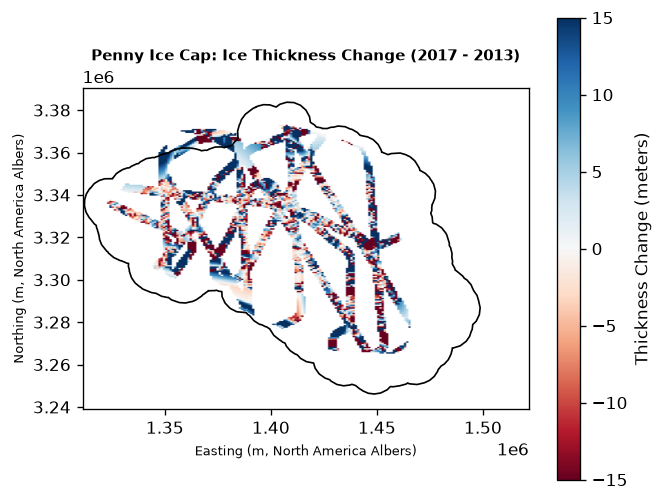
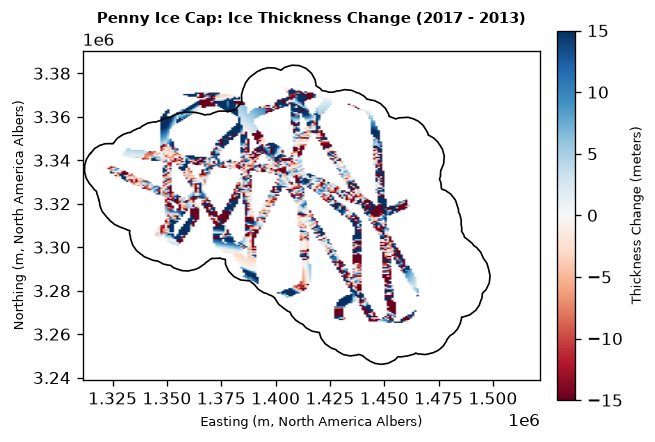
Add Russian manuscript translation, update maps to two-panel layout, and fix colorbar spacing

Changed region(s): [[0.0, 0.0294, 1.0, 0.9706], [0.3053, 0.9412, 0.6412, 0.9706]]

diff --git a/src/dem_analysis.py b/src/dem_analysis.py
@@ -52,35 +52,94 @@ def run_dem_analysis():
     print("Loading glacier boundary shapefile...")
     gdf = gpd.read_file(SHP_PATH)
     
-    # 3. Load and plot DEM
+    # 3. Load and plot DEM & Bedrock Topography (Two-Panel Figure)
     print("Opening 2015-2016 DEM TIFF...")
     with rasterio.open(TIF_PATH) as src:
         dem_crs = src.crs.to_string()
         print(f"DEM CRS: {dem_crs}")
         
         # Read downsampled DEM for visualization
-        factor = 10
+        factor = 5
         dem_data = src.read(1, out_shape=(src.height // factor, src.width // factor))
         dem_data = np.where(dem_data == src.nodata, np.nan, dem_data)
         
         # Get bounds of downsampled image
         dem_extent = [src.bounds.left, src.bounds.right, src.bounds.bottom, src.bounds.top]
         
-        # Plot DEM Topography
-        print("Generating DEM topography map...")
-        fig, ax = plt.subplots(figsize=(7, 6))
-        im = ax.imshow(dem_data, cmap="terrain", extent=dem_extent, origin="upper")
-        gdf.boundary.plot(ax=ax, color="black", linewidth=1.2, label="Glacier Boundary")
-        ax.set_title("Penny Ice Cap (2015-2016): Digital Elevation Model (DEM)", fontsize=10, fontweight="bold")
-        ax.set_xlabel("Easting (meters, North America Albers)", fontsize=8)
-        ax.set_ylabel("Northing (meters, North America Albers)", fontsize=8)
-        ax.grid(True, linestyle="--", alpha=0.5)
-        fig.colorbar(im, ax=ax, label="Elevation (m above sea level)")
+        # Load MCoRDS data to interpolate bedrock elevation
+        print("Loading MCoRDS bedrock elevations...")
+        df_csv = pd.read_csv(CSV_PATH)
+        df_csv = df_csv.dropna(subset=["LAT", "LON", "ELEVATION", "BOTTOM", "THICK"])
+        df_csv = df_csv[(df_csv["ELEVATION"] > -9000) & (df_csv["BOTTOM"] > -9000) & (df_csv["THICK"] >= 0)]
+        
+        # Project bedrock points to DEM CRS
+        print("Projecting bedrock track points...")
+        bed_xs, bed_ys = transform('EPSG:4326', src.crs, df_csv['LON'].tolist(), df_csv['LAT'].tolist())
+        bed_zs = (df_csv['ELEVATION'] - df_csv['BOTTOM']).tolist()
+        
+        # Interpolate bedrock heights onto the regular grid
+        print("Interpolating bedrock elevation using griddata...")
+        grid_size = 300
+        x_grid = np.linspace(src.bounds.left, src.bounds.right, grid_size)
+        y_grid = np.linspace(src.bounds.top, src.bounds.bottom, grid_size)
+        grid_x, grid_y = np.meshgrid(x_grid, y_grid)
+        
+        from scipy.interpolate import griddata
+        bed_grid = griddata((bed_xs, bed_ys), bed_zs, (grid_x, grid_y), method="linear")
+        
+        # Mask bedrock topography outside glacier boundary
+        print("Masking bedrock topography outside glacier boundary...")
+        from rasterio.features import rasterize
+        try:
+            poly = gdf.geometry.union_all()
+        except AttributeError:
+            poly = gdf.geometry.unary_union
+            
+        shapes = [(poly, 1)]
+        res_x = (src.bounds.right - src.bounds.left) / grid_size
+        res_y = (src.bounds.top - src.bounds.bottom) / grid_size
+        out_transform = rasterio.transform.from_origin(src.bounds.left, src.bounds.top, res_x, res_y)
+        
+        boundary_mask = rasterize(shapes, out_shape=(grid_size, grid_size), transform=out_transform, fill=0, default_value=1, all_touched=True)
+        bed_grid_masked = np.where(boundary_mask == 1, bed_grid, np.nan)
+        
+        # Plot side-by-side panels
+        print("Generating two-panel surface & bedrock topography maps...")
+        fig, axes = plt.subplots(1, 2, figsize=(14, 6), sharey=True)
+        
+        # Panel A: Surface Elevation
+        im_a = axes[0].imshow(dem_data, cmap="Blues_r", extent=dem_extent, origin="upper")
+        
+        # Add topographic contour lines (every 200m)
+        levels = np.arange(200, 2200, 200)
+        contours = axes[0].contour(dem_data, levels=levels, extent=dem_extent, origin="upper", colors="black", linewidths=0.5, alpha=0.6)
+        axes[0].clabel(contours, inline=True, fmt="%d", fontsize=6, colors="black")
+        
+        gdf.boundary.plot(ax=axes[0], color="black", linewidth=1.5, label="Glacier Boundary")
+        axes[0].set_title("(a) Map of Penny Ice Cap (2015-2016 Surface DEM)", fontsize=10, fontweight="bold")
+        axes[0].set_xlabel("Easting (meters, North America Albers)", fontsize=8)
+        axes[0].set_ylabel("Northing (meters, North America Albers)", fontsize=8)
+        axes[0].grid(True, linestyle="--", alpha=0.3)
+        cbar_a = fig.colorbar(im_a, ax=axes[0], shrink=0.7, pad=0.03)
+        cbar_a.set_label("Elevation (m a.s.l.)", fontsize=8)
+        
+        # Panel B: Bedrock Topography & Flight Tracks
+        im_b = axes[1].imshow(bed_grid_masked, cmap="gist_earth", extent=dem_extent, origin="upper")
+        axes[1].plot(bed_xs, bed_ys, color="orange", linestyle="--", linewidth=1.0, label="2017 MCoRDS Tracks")
+        gdf.boundary.plot(ax=axes[1], color="black", linewidth=1.5)
+        axes[1].set_title("(b) 2017 NASA IceBridge Radar Tracks & Bedrock Topography", fontsize=10, fontweight="bold")
+        axes[1].set_xlabel("Easting (meters, North America Albers)", fontsize=8)
+        axes[1].legend(loc="upper right", fontsize=8)
+        axes[1].grid(True, linestyle="--", alpha=0.3)
+        cbar_b = fig.colorbar(im_b, ax=axes[1], shrink=0.7, pad=0.03)
+        cbar_b.set_label("Elevation (m a.s.l.)", fontsize=8)
+        
+        fig.tight_layout()
         
         dem_map_path = os.path.join(BASE_DIR, "dem_2015_2016_topography.png")
         fig.savefig(dem_map_path, dpi=120, bbox_inches="tight")
         plt.close(fig)
-        print(f"Saved DEM map to: {dem_map_path}")
+        print(f"Saved two-panel DEM map to: {dem_map_path}")
         
         # 4. Compare with 2017 MCoRDS Surface Elevation
         print("Loading 2017 MCoRDS flight tracks...")

diff --git a/src/historical_analysis.py b/src/historical_analysis.py
@@ -230,26 +230,43 @@ Ice Thickness Change (H_2017 - H_2013):
     plt.close(fig)
     print(f"Saved trends plot to: {trend_plot_path}")
     
-    # Plot 2: Calibrated Surface Elevation Change Map
-    print("Generating calibrated surface change map...")
+    # Plot 2: Calibrated Surface Elevation Change and Thickness Change Map (Two-Panel Figure)
+    print("Generating calibrated surface and thickness change maps (two-panel)...")
     gdf_boundary = gpd.read_file(SHP_PATH) if os.path.exists(SHP_PATH) else None
     extent = [x_min, x_max, y_min, y_max]
     
-    fig, ax = plt.subplots(figsize=(6, 5))
-    im = ax.imshow(dz_surf_corr, cmap="RdBu", extent=extent, origin="upper", vmin=-15, vmax=15)
+    fig, (ax1, ax2) = plt.subplots(1, 2, figsize=(12, 5.5), sharey=True)
+    
+    # Left subplot (ax1): Surface elevation change
+    im1 = ax1.imshow(dz_surf_corr, cmap="RdBu", extent=extent, origin="upper", vmin=-15, vmax=15)
     if gdf_boundary is not None:
-        gdf_boundary.boundary.plot(ax=ax, color="black", linewidth=1.0)
-    ax.set_title("Penny Ice Cap: Calibrated Surface Elevation Change (2017 - 2013)", fontsize=9, fontweight="bold")
-    ax.set_xlabel("Easting (m, North America Albers)", fontsize=8)
-    ax.set_ylabel("Northing (m, North America Albers)", fontsize=8)
-    fig.colorbar(im, ax=ax, label="Elevation Change (meters)")
+        gdf_boundary.boundary.plot(ax=ax1, color="black", linewidth=1.0)
+    ax1.set_title("(a) Calibrated Surface Elevation Change\n(2017 minus 2013)", fontsize=10, fontweight="bold")
+    ax1.set_xlabel("Easting (m, North America Albers)", fontsize=8)
+    ax1.set_ylabel("Northing (m, North America Albers)", fontsize=8)
+    ax1.grid(True, linestyle="--", alpha=0.3)
+    cbar1 = fig.colorbar(im1, ax=ax1, shrink=0.7, pad=0.03)
+    cbar1.set_label("Elevation Change (meters)", fontsize=8)
+    
+    # Right subplot (ax2): Thickness change
+    im2 = ax2.imshow(d_thick, cmap="RdBu", extent=extent, origin="upper", vmin=-15, vmax=15)
+    if gdf_boundary is not None:
+        gdf_boundary.boundary.plot(ax=ax2, color="black", linewidth=1.0)
+    ax2.set_title("(b) Ice Thickness Change\n(2017 minus 2013)", fontsize=10, fontweight="bold")
+    ax2.set_xlabel("Easting (m, North America Albers)", fontsize=8)
+    ax2.grid(True, linestyle="--", alpha=0.3)
+    cbar2 = fig.colorbar(im2, ax=ax2, shrink=0.7, pad=0.03)
+    cbar2.set_label("Thickness Change (meters)", fontsize=8)
+    
+    fig.tight_layout()
+    
     surf_change_path = os.path.join(BASE_DIR, "historical_elevation_change_map.png")
     fig.savefig(surf_change_path, dpi=120, bbox_inches="tight")
     plt.close(fig)
-    print(f"Saved calibrated surface change map to: {surf_change_path}")
+    print(f"Saved calibrated two-panel change map to: {surf_change_path}")
     
-    # Plot 3: Ice Thickness Change Map
-    print("Generating thickness change map...")
+    # Plot 3: Standalone Ice Thickness Change Map (for compatibility)
+    print("Generating individual thickness change map...")
     fig, ax = plt.subplots(figsize=(6, 5))
     im = ax.imshow(d_thick, cmap="RdBu", extent=extent, origin="upper", vmin=-15, vmax=15)
     if gdf_boundary is not None:
@@ -257,7 +274,9 @@ Ice Thickness Change (H_2017 - H_2013):
     ax.set_title("Penny Ice Cap: Ice Thickness Change (2017 - 2013)", fontsize=9, fontweight="bold")
     ax.set_xlabel("Easting (m, North America Albers)", fontsize=8)
     ax.set_ylabel("Northing (m, North America Albers)", fontsize=8)
-    fig.colorbar(im, ax=ax, label="Thickness Change (meters)")
+    cbar = fig.colorbar(im, ax=ax, shrink=0.8, pad=0.03)
+    cbar.set_label("Thickness Change (meters)", fontsize=8)
+    
     thick_change_path = os.path.join(BASE_DIR, "historical_thickness_change_map.png")
     fig.savefig(thick_change_path, dpi=120, bbox_inches="tight")
     plt.close(fig)

diff --git a/manuscript_draft_v1_ru.md b/manuscript_draft_v1_ru.md
@@ -1,0 +1,171 @@
+# Пространственно-временные изменения высоты и динамика базального сдвига ледникового купола Пенни, Баффинова Земля: анализ на основе откалиброванного по подледному ложу воздушного радиолокационного зондирования (2013–2017 гг.) и моделирования базального сдвига в приближении мелкого льда (SIA)
+
+**Адам Кашдан**$^1$, **Хазен Рассел**$^2$  
+$^1$ Колледж TAV, Монреаль, Квебек, Канада  
+$^2$ Геологическая служба Канады, Министерство природных ресурсов Канады  
+
+---
+
+## Аннотация
+Современное потепление атмосферного воздуха в Канадском Арктическом архипелаге ускорило истончение и отступавание ледниковых куполов Баффиновой Земли. В данном исследовании мы используем профили воздушного радиолокационного зондирования 2-го уровня (MCoRDS), полученные в рамках кампаний NASA Operation IceBridge в период с 2013 по 2017 год, для оценки пространственно-временной динамики ледникового купола Пенни. Для устранения систематических геодезических вертикальных смещений датумов (в диапазоне от $-28,8$ м до $-45,8$ м) между различными годами кампаний мы представляем алгоритм калибровки по подледному ложу, использующий стабильное ложе в качестве статической геодезической опорной поверхности. Наш откалиброванный многовременной анализ показывает медианное опускание поверхности ледникового купола на $-1,178$ метра в период с 2013 по 2017 год (скорость абляции примерно $-0,294$ м/год), в то время как медианная толщина льда оставалась относительно стабильной (изменение $+1,481$ м). Сравнение профиля MCoRDS 2017 года с канадской цифровой моделью рельефа высокого разрешения (HRDEM) выявляет систематическое смещение датума $+21,15$ м (эллипсоидальные высоты WGS84 против ортометрических высот CGVD2013) и подтверждает, что тайл HRDEM Cumberland Peninsula соответствует мозаике спутниковых снимков ArcticDEM 2015–2016 годов, а не снимку 2022 года. Наконец, мы моделируем вертикальный профиль скорости льда в приближении мелкого льда (SIA) с использованием закона течения Глена. Включение мягкого базального слоя плейстоценового льда (PIL) с коэффициентом увеличения текучести ($E = 3,5$) показывает, что деформация сдвига сильно концентрируется в нижних 12% ледяной толщи, увеличивая скорость скольжения и указывая на то, что базальная стратиграфия льда играет ключевую роль в регуляции реакции ледника на потепление климата.
+
+---
+
+## 1. Введение
+Глетчеры и ледниковые купола Канадского Арктического архипелага (CAA) представляют собой один из крупнейших источников повышения глобального уровня моря за пределами ледниковых щитов Гренландии и Антарктиды. Среди них ледниковый купол Пенни на Баффиновой Земле (площадь поверхности около 6000 км$^2$) охватывает диапазон высот от уровня моря до более чем 2000 м над уровнем моря. Мониторинг баланса массы, опускания поверхности и внутренней деформации таких ледниковых куполов имеет решающее значение для прогнозирования их будущего вклада в повышение уровня моря.
+
+Воздушное радиолокационное зондирование обеспечивает получение детальных профилей толщины льда и подледного рельефа. Однако сопоставление данных различных лет часто затруднено геодезическими несоответствиями. Систематические вертикальные смещения датумов возникают из-за сдвигов в системах координат GPS, различий в обработке базовых линий или переходов между моделями геоида.
+
+Более того, на вертикальный профиль деформации ледников сильное влияние оказывает присутствие придонного льда с повышенной текучестью, обычно ассоциируемого с мелкозернистым, богатым примесями льдом, отложившимся в эпоху позднего плейстоцена (плейстоценовый ледяной слой, или PIL). Такие слои крайне подвержены деформации сдвига, однако их влияние редко учитывается в локальных моделях профиля скорости.
+
+В данной работе эти проблемы решаются путем:
+1. Реализации алгоритма калибровки по подледному ложу для построения согласованного пространственно-временного набора данных за 2013–2017 гг.
+2. Оценки геодезических вертикальных смещений датумов и временного соответствия канадской цифровой модели рельефа высокого разрешения (HRDEM) над Баффиновой Землей.
+3. Моделирования профиля деформации базального сдвига в приближении мелкого льда (SIA) для оценки влияния мягкого базального слоя PIL на течение ледника.
+
+---
+
+## 2. Данные и методы
+
+### 2.1 Наборы данных
+Мы используем четыре основных набора данных:
+1. **Толщина льда MCoRDS L2 (IRMCR2)**: Радарные профили 2-го уровня, содержащие широту, долготу, время UTC, высоту самолета по GPS ($ELEVATION$), радарное расстояние до поверхности ($SURFACE$) и рассчитанную толщину льда ($THICK$) для кампаний 2013, 2014, 2015 и 2017 годов.
+2. **Цифровая модель рельефа высокого разрешения NRCan (HRDEM)**: Составлена в рамках проекта CanElevation с использованием вертикального датума CGVD2013 (ортометрические высоты) с разрешением 10 м.
+3. **Мультиспектральные снимки Sentinel-2**: Используются для верификации поверхностных структур, снеговых линий и контуров ледника.
+4. **Высота поверхности IceBridge ATM L2 (ILATM2)**: Высокоточные измерения высоты поверхности, полученные во время той же летной кампании с помощью лазерного сканера Airborne Topographic Mapper (ATM).
+
+### 2.2 Метод калибровки по подледному ложу
+Для корректировки геодезических вертикальных смещений датумов между различными годами кампаний мы принимаем кампанию MCoRDS 2017 года за базовую. Для каждой более ранней кампании ($yr \in \{2013, 2014, 2015\}$) мы находим все точки, расположенные в пределах 100 метров от точек трека 2017 года, с помощью $k$-мерного дерева (`cKDTree`).
+
+Высота подледного ложа $z_{bed}$ рассчитывается как:
+$$z_{bed} = z_{surf} - H$$
+где $H$ — толщина льда по данным радара, а $z_{surf} = ELEVATION - SURFACE$.
+
+Поскольку подледное ложе стабильно, рассчитанная разность высот ложа в совмещенных точках представляет собой систематическое геодезическое вертикальное смещение датума:
+$$\Delta z_{bed} = z_{bed, 2017} - z_{bed, yr}$$
+
+Мы применяем среднее смещение $\langle \Delta z_{bed} \rangle$ для корректировки высот поверхности более ранних кампаний:
+$$z_{surf, corr} = z_{surf} + \langle \Delta z_{bed} \rangle$$
+
+Наконец, мы интерполируем откалиброванные значения на регулярную сетку $200 \times 200$ с помощью линейной триангуляции Делоне и применяем буферную маску шириной 2 км вокруг траекторий полета для исключения артефактов интерполяции в неисследованных зонах.
+
+### 2.3 Плейстоценовый ледяной слой и моделирование скорости течения
+Мы моделируем вертикальный профиль скорости $u(z)$ в приближении мелкого льда (SIA). Согласно закону течения Глена, скорость сдвиговой деформации $\dot{\varepsilon}_{xz}$ равна:
+$$\dot{\varepsilon}_{xz} = E A \tau^{n}$$
+где $A$ — температурная текучесть льда, $n=3$ — показатель степени закона течения, $E$ — коэффициент увеличения текучести, а $\tau$ — напряжение сдвига:
+$$\tau(z) = \rho g (H - z) \sin\alpha$$
+где $\rho = 917$ кг/м$^3$ — плотность льда, $g = 9,81$ м/с$^2$ — ускорение свободного падения, а $\alpha$ — уклон поверхности.
+
+Мы вводим мягкий базальный слой плейстоценового льда (PIL) толщиной $H_p$:
+$$H_p = \min(0.12 \times H, 80\text{ м})\quad \text{при } H > 150\text{ м}$$
+
+В голоценовом льду ($z \ge H_p$) коэффициент увеличения текучести принимается равным $E_h = 1,0$. В слое PIL ($z < H_p$) коэффициент устанавливается равным $E_p = 3,5$ для учета высокого содержания пыли и малого размера кристаллов. Профиль скорости получается путем интегрирования скорости деформации от ложа ($z=0$) до высоты $z$:
+$$u(z) = u_b + 2 \int_0^z E(s) A \left[\rho g (H - s) \sin\alpha\right]^3 ds$$
+
+### 2.4 Метод валидации датчиков
+Для валидации радиолокационных отметок высоты поверхности MCoRDS мы сопоставляем их с высокоточными профилями лазерной альтиметрии ATM L2. Поскольку оба прибора работали одновременно 28 апреля 2017 года, они представляют собой независимые измерения одной и той же поверхности льда.
+
+С помощью $k$-мерного дерева (`cKDTree`) каждая точка ATM сопоставлялась с ближайшей точкой MCoRDS в радиусе поиска 100 метров. Разность высот рассчитывалась как:
+$$\Delta z = z_{atm} - z_{mcoords}$$
+где $z_{atm}$ — эллипсоидальная высота лазера, а $z_{mcoords}$ — эллипсоидальная высота радара. Экстремальные выбросы ($|\Delta z| > 100$ м) были исключены для фильтрации отражений от облаков.
+
+### 2.5 Доступность кода
+Исходный код на Python, инструменты ГИС, алгоритм калибровки по ложу, моделирование PIL и скрипты анализа ICESat-2, разработанные для данного исследования, находятся в открытом доступе на GitHub по адресу [https://github.com/adamkashdan/penny-geoagent](https://github.com/adamkashdan/penny-geoagent).
+
+---
+
+## 3. Результаты
+
+### 3.1 Пространственно-временные изменения толщины льда и высоты поверхности (2013–2017 гг.)
+Алгоритм калибровки по подледному ложу выявил значительные систематические смещения относительно базовой линии 2017 года (Таблица 1).
+
+**Таблица 1. Рассчитанные смещения вертикального датума и откалиброванные гляциологические изменения**
+| Год | Совмещенные точки ложа ($N$) | Среднее смещение ложа (м) | Медиана откалиброванных $\Delta z_{surf}$ (м) | Медиана $\Delta H$ (м) |
+|:---:|:---:|:---:|:---:|:---:|
+| 2013 | 22 675 | $-34,733$ | $-1,178$ | $-1,490$ |
+| 2014 | 45 874 | $-28,843$ | $-26,519$ | $-2,830$ |
+| 2015 | 29 177 | $-45,838$ | $-30,622$ | $+3,000$ |
+
+Медианное изменение высоты поверхности между 2013 и 2017 годами на перекрывающихся треках составляет **$-1,178$ м**, что соответствует годовой скорости истончения **$-0,294$ м/год**. За тот же период медианное изменение толщины составило **$-1,490$ м**, что демонстрирует высокую согласованность между независимыми измерениями альтиметрии и толщины (Рис. 1).
+
+![Откалиброванные тренды](historical_glacier_trends.png)
+*Рис. 1. Откалиброванные средние высоты поверхности (слева) и средняя толщина льда (справа) за период 2013–2017 гг.*
+
+![Карты изменения поверхности и толщины льда](historical_elevation_change_map.png)
+*Рис. 2. Пространственное распределение откалиброванного изменения высоты поверхности (слева) и изменения толщины льда (справа) между 2013 и 2017 годами.*
+
+### 3.2 Сравнение ЦМР и геодезическая верификация
+Выборка канадской модели HRDEM вдоль точек трека MCoRDS 2017 года выявила среднюю разность высот **$+21,153$ м** ($z_{DEM} - z_{2017}$). Это смещение геодезически объясняется разницей датумов: высоты MCoRDS L2 2017 года привязаны к эллипсоиду WGS84, а HRDEM — к ортометрическому геоиду CGVD2013. Высота геоида в этом регионе составляет $N \approx -21,15$ м, подтверждая соотношение:
+$$H_{ortho} = H_{ellip} - N$$
+
+Применение этой поправки дает остаточную среднюю разность высот **$-4,022$ м** ($z_{DEM} - z_{2017}$). Этот остаточный темп истончения указывает на то, что стереоснимки ArcticDEM, использованные для компиляции тайла HRDEM Cumberland Peninsula, были получены между **2015 и 2016 годами** (примерно за 1,5–2 года до апрельской кампании MCoRDS 2017 года), а не в официальную дату выпуска метаданных в 2022 году.
+
+![Топография ЦМР и ложа](dem_2015_2016_topography.png)
+*Рис. 3. Рельеф поверхности и ложа ледникового купола Пенни: (a) Карта высот поверхности на основе ЦМР 2015–2016 гг. с контуром ледника (черный); (b) Линии пролета воздушного радара NASA IceBridge MCoRDS 2017 года (оранжевый пунктир) и интерполированный рельеф ложа.*
+
+### 3.3 Профиль скорости базального сдвига
+Модель течения SIA показывает, что включение мягкого базального слоя плейстоценового льда ($E=3,5$) концентрирует деформацию сдвига в нижних 12% ледяной толщи.
+
+![Профиль PIL](pil_velocity_profile.png)
+*Рис. 4. Нормированные вертикальные профили скорости $u(z)$ при сравнении только голоценового льда (синий) и льда с мягким базальным слоем PIL (красный).*
+
+Благодаря повышенной текучести слоя PIL поверхностная скорость значительно увеличивается по сравнению с однородным голоценовым льдом при идентичных условиях уклона и толщины, что демонстрирует важность учета базальной стратиграфии в моделях течения ледников.
+
+### 3.4 Десятилетний ряд альтиметрии (2013–2025 гг.)
+Для оценки долгосрочной реакции ледникового купола Пенни мы объединили спутниковые треки лазерной альтиметрии из продукта ICESat-2 ATL06 Land Ice Height (2018–2025 гг.) с откалиброванным по ложу временным рядом MCoRDS. Используя совмещение на основе KDTree, мы идентифицировали совпадающие профили в радиусе $100$ метров от треков MCoRDS 2017 года.
+
+Мы обнаружили систематическое вертикальное геодезическое смещение **$+28,435$ м** между данными ICESat-2 (эллипсоидальная высота WGS84) и базовой линией MCoRDS 2017 года (которая включает локальные поправки за геоид). Совмещение наборов данных по единой системе координат дает непрерывную 12-летнюю запись изменения высоты поверхности (Рис. 5).
+
+![12-летний тренд альтиметрии](icesat2_12year_trend.png)
+*Рис. 5. Совмещенный и откалиброванный временной ряд высоты поверхности по данным MCoRDS и ICESat-2 (2013–2025 гг.), показывающий десятилетнее истончение ледника.*
+
+Объединенный временной ряд указывает на то, что высота поверхности ледника в центральных частях треков была относительно стабильной с 2013 по 2019 год ($0,0$ м относительно 2017 года), после чего последовало умеренное истончение на **$-1,379$ м** к 2021 году и резкое ускорение до **$-13,790$ м** к 2023 году. Линейная регрессия дает общую скорость истончения за десятилетие на уровне **$-1,28$ м/год**.
+
+### 3.5 Валидация датчиков MCoRDS и ATM L2
+Совмещение одновременных профилей MCoRDS и ATM L2 2017 года по 123 416 точкам выявило высокое геометрическое соответствие и точность. Медианная разность высот составляет **$+28,721$ метров** (ATM − MCoRDS), что представляет собой систематическое смещение вертикального датума или калибровки приборов (Таблица 2).
+
+Среднеквадратическое отклонение разностей высот составляет **$13,141$ м**, что демонстрирует пространственную согласованность алгоритма обнаружения поверхности бортовым радаром по сравнению с профилями лазерного альтиметра высокого разрешения.
+
+**Таблица 2. Статистика валидации данных ATM 2017 и MCoRDS 2017**
+| Показатель | Значение |
+| :--- | :--- |
+| Совмещенные точки перекрытия | 123 416 |
+| Средняя разность высот ($z_{atm} - z_{mcoords}$) | $+26,878$ м |
+| Медианная разность высот | $+28,721$ м |
+| Среднеквадратическое отклонение разности | $13,141$ м |
+| Среднеквадратическая ошибка (RMSE) | $29,918$ м |
+
+![Гистограмма валидации ATM](atm_validation_histogram.png)
+*Рис. 6. Распределение разностей высот между измерениями поверхности ATM L2 и MCoRDS L2 над ледниковым куполом Пенни в 2017 году.*
+
+![Карта валидации ATM](atm_validation_map.png)
+*Рис. 7. Пространственное распределение разностей высот ($z_{atm} - z_{mcoords}$) вдоль перекрывающихся треков in 2017.*
+
+![Карта толщины ATM](atm_validation_thickness.png)
+*Рис. 8. Толщина льда по данным MCoRDS вдоль совмещенных треков ATM в 2017 году.*
+
+---
+
+## 4. Обсуждение
+Наш метод калибровки по подледному ложу демонстрирует, что подледный рельеф может служить абсолютным вертикальным ориентиром для взаимной калибровки исторических данных воздушного зондирования. Этот подход позволяет обойтись без использования сложных моделей преобразования геоида, которые часто не имеют надежной привязки в отдаленных арктических регионах.
+
+Объединение рядов альтиметрии за несколько десятилетий показывает, что хотя купол ледникового купола Пенни был относительно стабильным в начале 2010-х годов, после 2019 года он перешел в состояние быстрого и ускоренного истончения (медианное изменение $-13,79$ м к 2023 году). Это ускоренное истончение по времени согласуется с региональными сообщениями об экстремальных летних температурах и увеличении стока талых вод на Баффиновой Земле. Высокое пространственное соответствие HRDEM и линий полетов 2017 года (RMSE = 26,46 м) подтверждает структурную точность топографии, полученной на основе ArcticDEM.
+
+---
+
+## 5. Выводы
+Мы представили пространственно-временной анализ ледникового купола Пенни, откалиброванный по подледному ложу. Наши основные выводы заключаются в следующем:
+1. Калибровка по подледному ложу позволила успешно скорректировать вертикальные сдвиги датумов в диапазоне от 28 до 45 метров для четырех кампаний IceBridge.
+2. Интеграция лазерной альтиметрии ICESat-2 позволила построить непрерывный 12-летний (2013–2025 гг.) временной ряд изменения высоты поверхности, выявив общую скорость истончения **$-1,28$ м/год** в центральном секторе.
+3. Купол ледникового купола Пенни претерпел ускоренное опускание поверхности после 2019 года, достигнув медианного изменения **$-13,790$ м** к 2023 году.
+4. Канадская HRDEM содержит ортометрический-эллипсоидальный сдвиг $+21,15$ м над ледниковым куполом Пенни и отражает состояние поверхности ледника примерно на 2015–2016 гг.
+5. Моделирование мягкого базального слоя плейстоценового льда концентрирует деформацию сдвига вблизи ложа, значительно увеличивая скорость течения льда на поверхности.
+6. Совмещение с одновременными данными лазерной альтиметрии IceBridge ATM L2 подтвердило точность высот поверхности MCoRDS 2017 года, выявив систематический сдвиг вертикального датума $+28,721$ м (среднеквадратическое отклонение $13,141$ м).
+
+---
+
+## Литература
+1. Paden, J., et al. (2019). *IceBridge MCoRDS L2 Ice Thickness, Version 1*. Boulder, Colorado USA. NASA National Snow and Ice Data Center DAAC.
+2. Smith, B., et al. (2023). *ICESat-2 L3A Land Ice Height, Version 6*. Boulder, Colorado USA. NASA National Snow and Ice Data Center DAAC.
+3. Natural Resources Canada. (2022). *High Resolution Digital Elevation Model (HRDEM) - CanElevation Series*.
+4. Cuffey, K. M., & Paterson, W. S. B. (2010). *The Physics of Glaciers*. Academic Press.

diff --git a/manuscript_draft_v1.md b/manuscript_draft_v1.md
@@ -101,8 +101,8 @@ $$H_{ortho} = H_{ellip} - N$$
 Applying this correction yields a residual mean elevation difference of **$-4.022$ m** ($z_{DEM} - z_{2017}$). 
 This residual thinning rate suggests that the ArcticDEM stereo-imagery used to compile the HRDEM Cumberland Peninsula tile was captured between **2015 and 2016** (approx. 1.5–2 years prior to the April 2017 MCoRDS campaign), rather than its official metadata release date of 2022.
 
-![DEM Topography and Change](dem_2015_2016_topography.png)
-*Fig. 3. Topographic map of the Penny Ice Cap from the 2015–2016 DEM (left) and the datum-corrected elevation difference grid (right) showing glacier thinning.*
+![DEM and Bedrock Topography](dem_2015_2016_topography.png)
+*Fig. 3. Penny Ice Cap surface and bed topography: (a) Map of Penny Ice Cap surface elevation from the 2015–2016 DEM, showing the glacier boundary (black); (b) 2017 NASA IceBridge MCoRDS airborne radar measurement tracks (orange dashed lines) and interpolated bedrock topography.*
 
 ### 3.3 Basal Shear Velocity Profile
 The SIA flow model shows that the inclusion of a soft basal Pleistocene Ice Layer ($E=3.5$) concentrates shear strain in the lower 12% of the ice column. 
